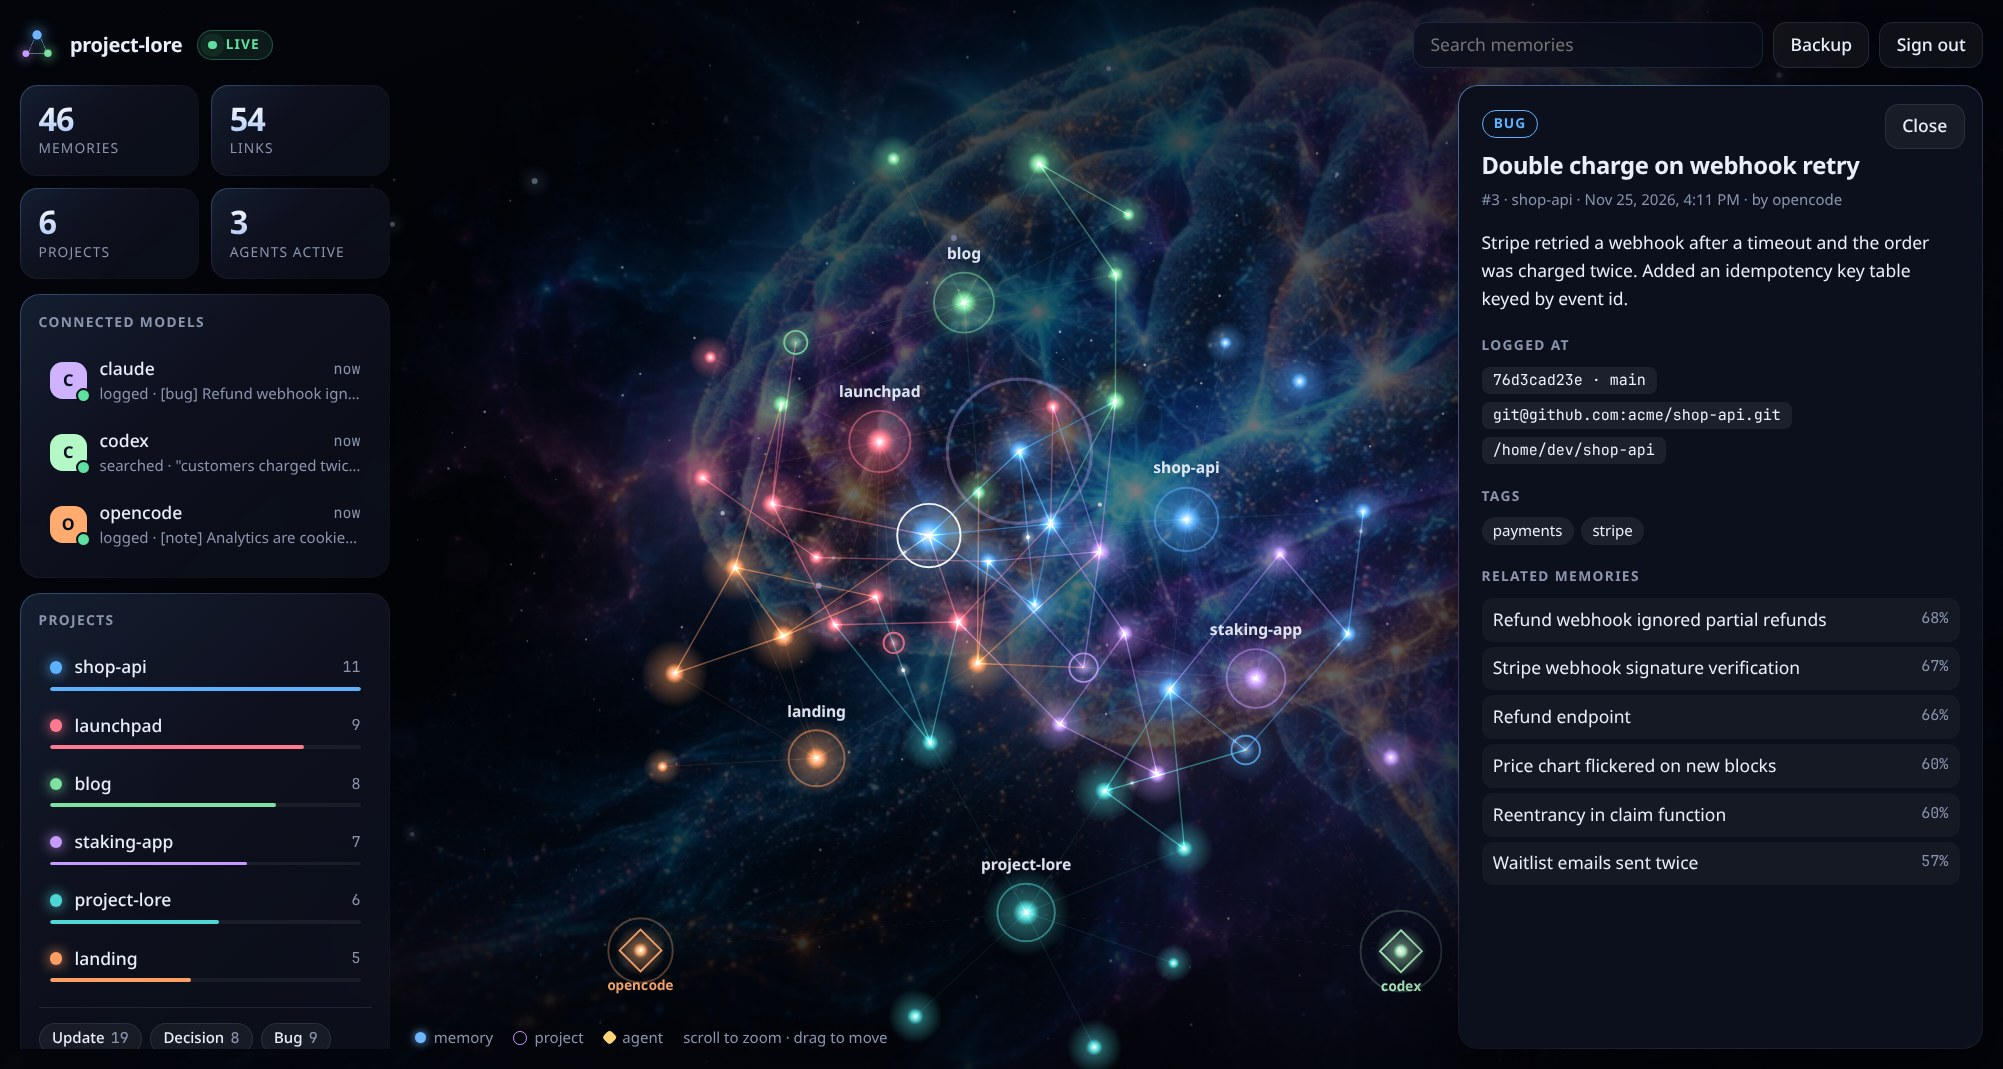
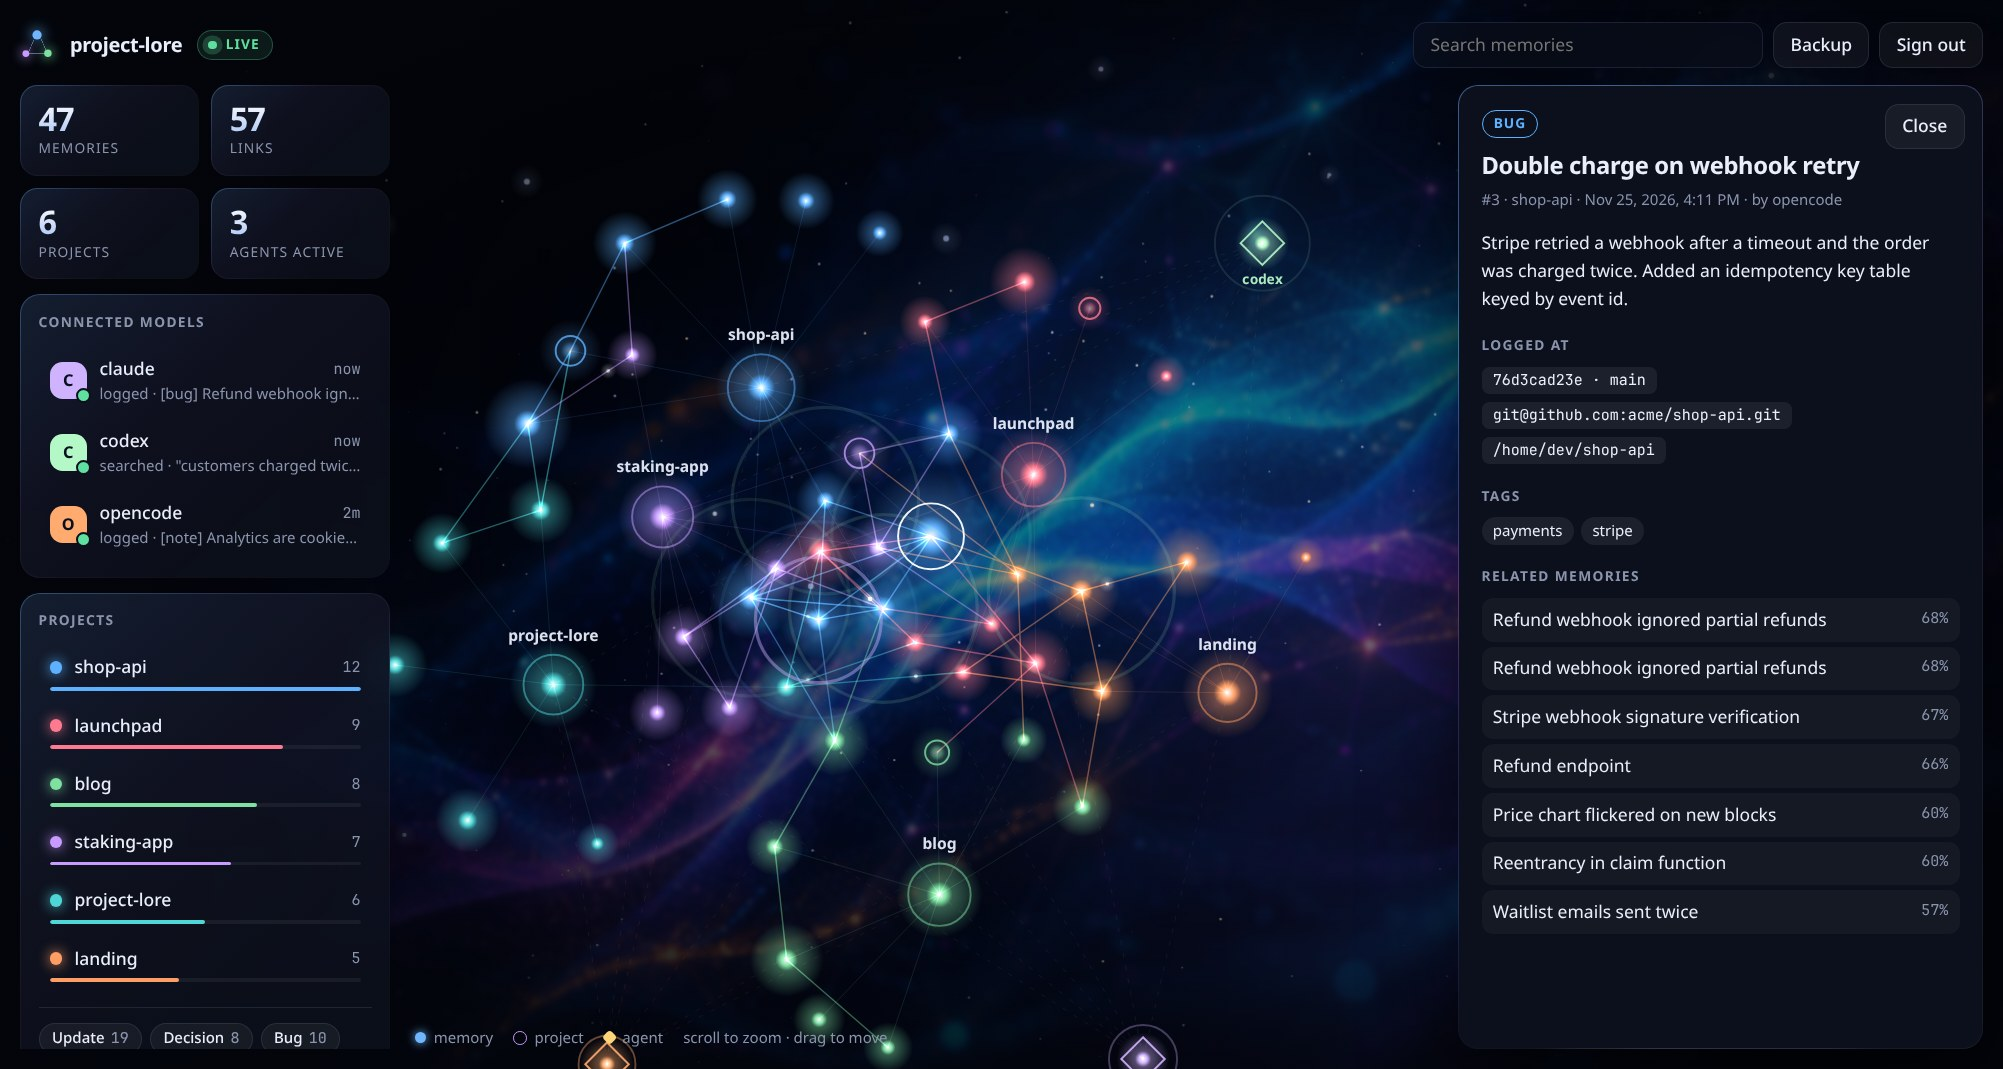
Use an abstract backdrop instead of a brain image
Flowing particle ribbons, dimmed and slightly blurred so its own points
of light never read as data.

diff --git a/assets/admin.css b/assets/admin.css
@@ -38,14 +38,14 @@ html, body {
 .scene > * { position: absolute; }
 .backdrop {
   inset: -6%;
-  background: url("/admin/backdrop.jpg") 56% 46% / cover no-repeat;
+  background: url("/admin/backdrop.jpg") 60% 50% / cover no-repeat;
   transform: translate(calc(var(--pan-x) * 0.35), calc(var(--pan-y) * 0.35)) scale(var(--zoom));
   animation: breathe 16s ease-in-out infinite alternate;
   will-change: transform, filter;
 }
 @keyframes breathe {
-  from { filter: brightness(0.36) saturate(1.05); }
-  to { filter: brightness(0.5) saturate(1.25); }
+  from { filter: blur(2px) brightness(0.4) saturate(1.05); }
+  to { filter: blur(2px) brightness(0.56) saturate(1.25); }
 }
 .aurora {
   width: 60vmax; height: 60vmax; border-radius: 50%;
